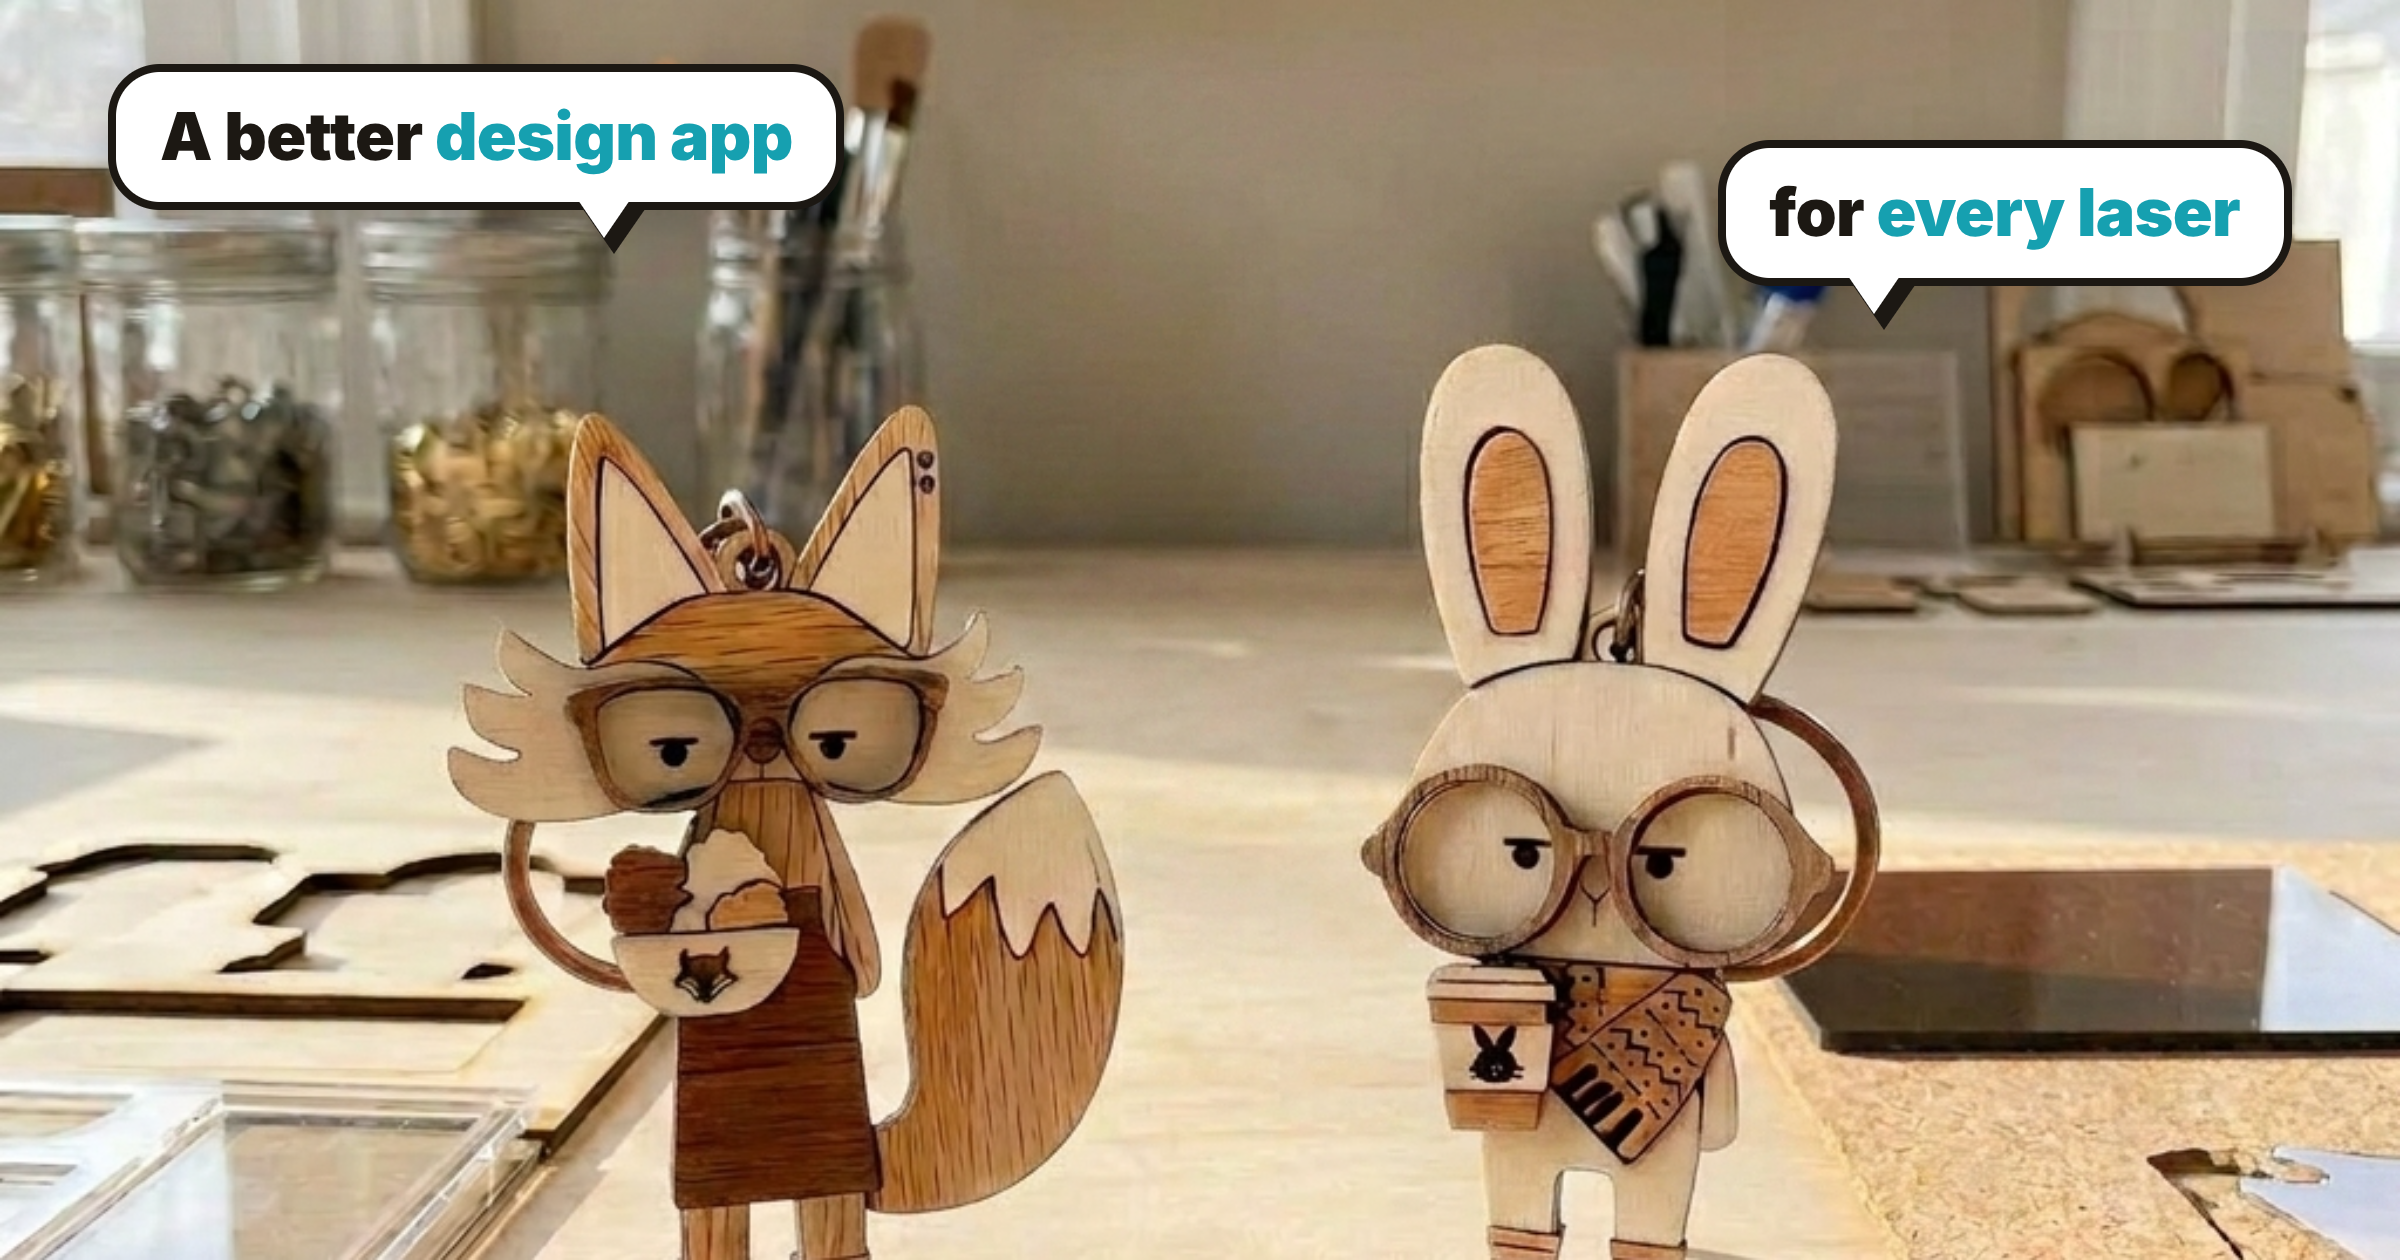
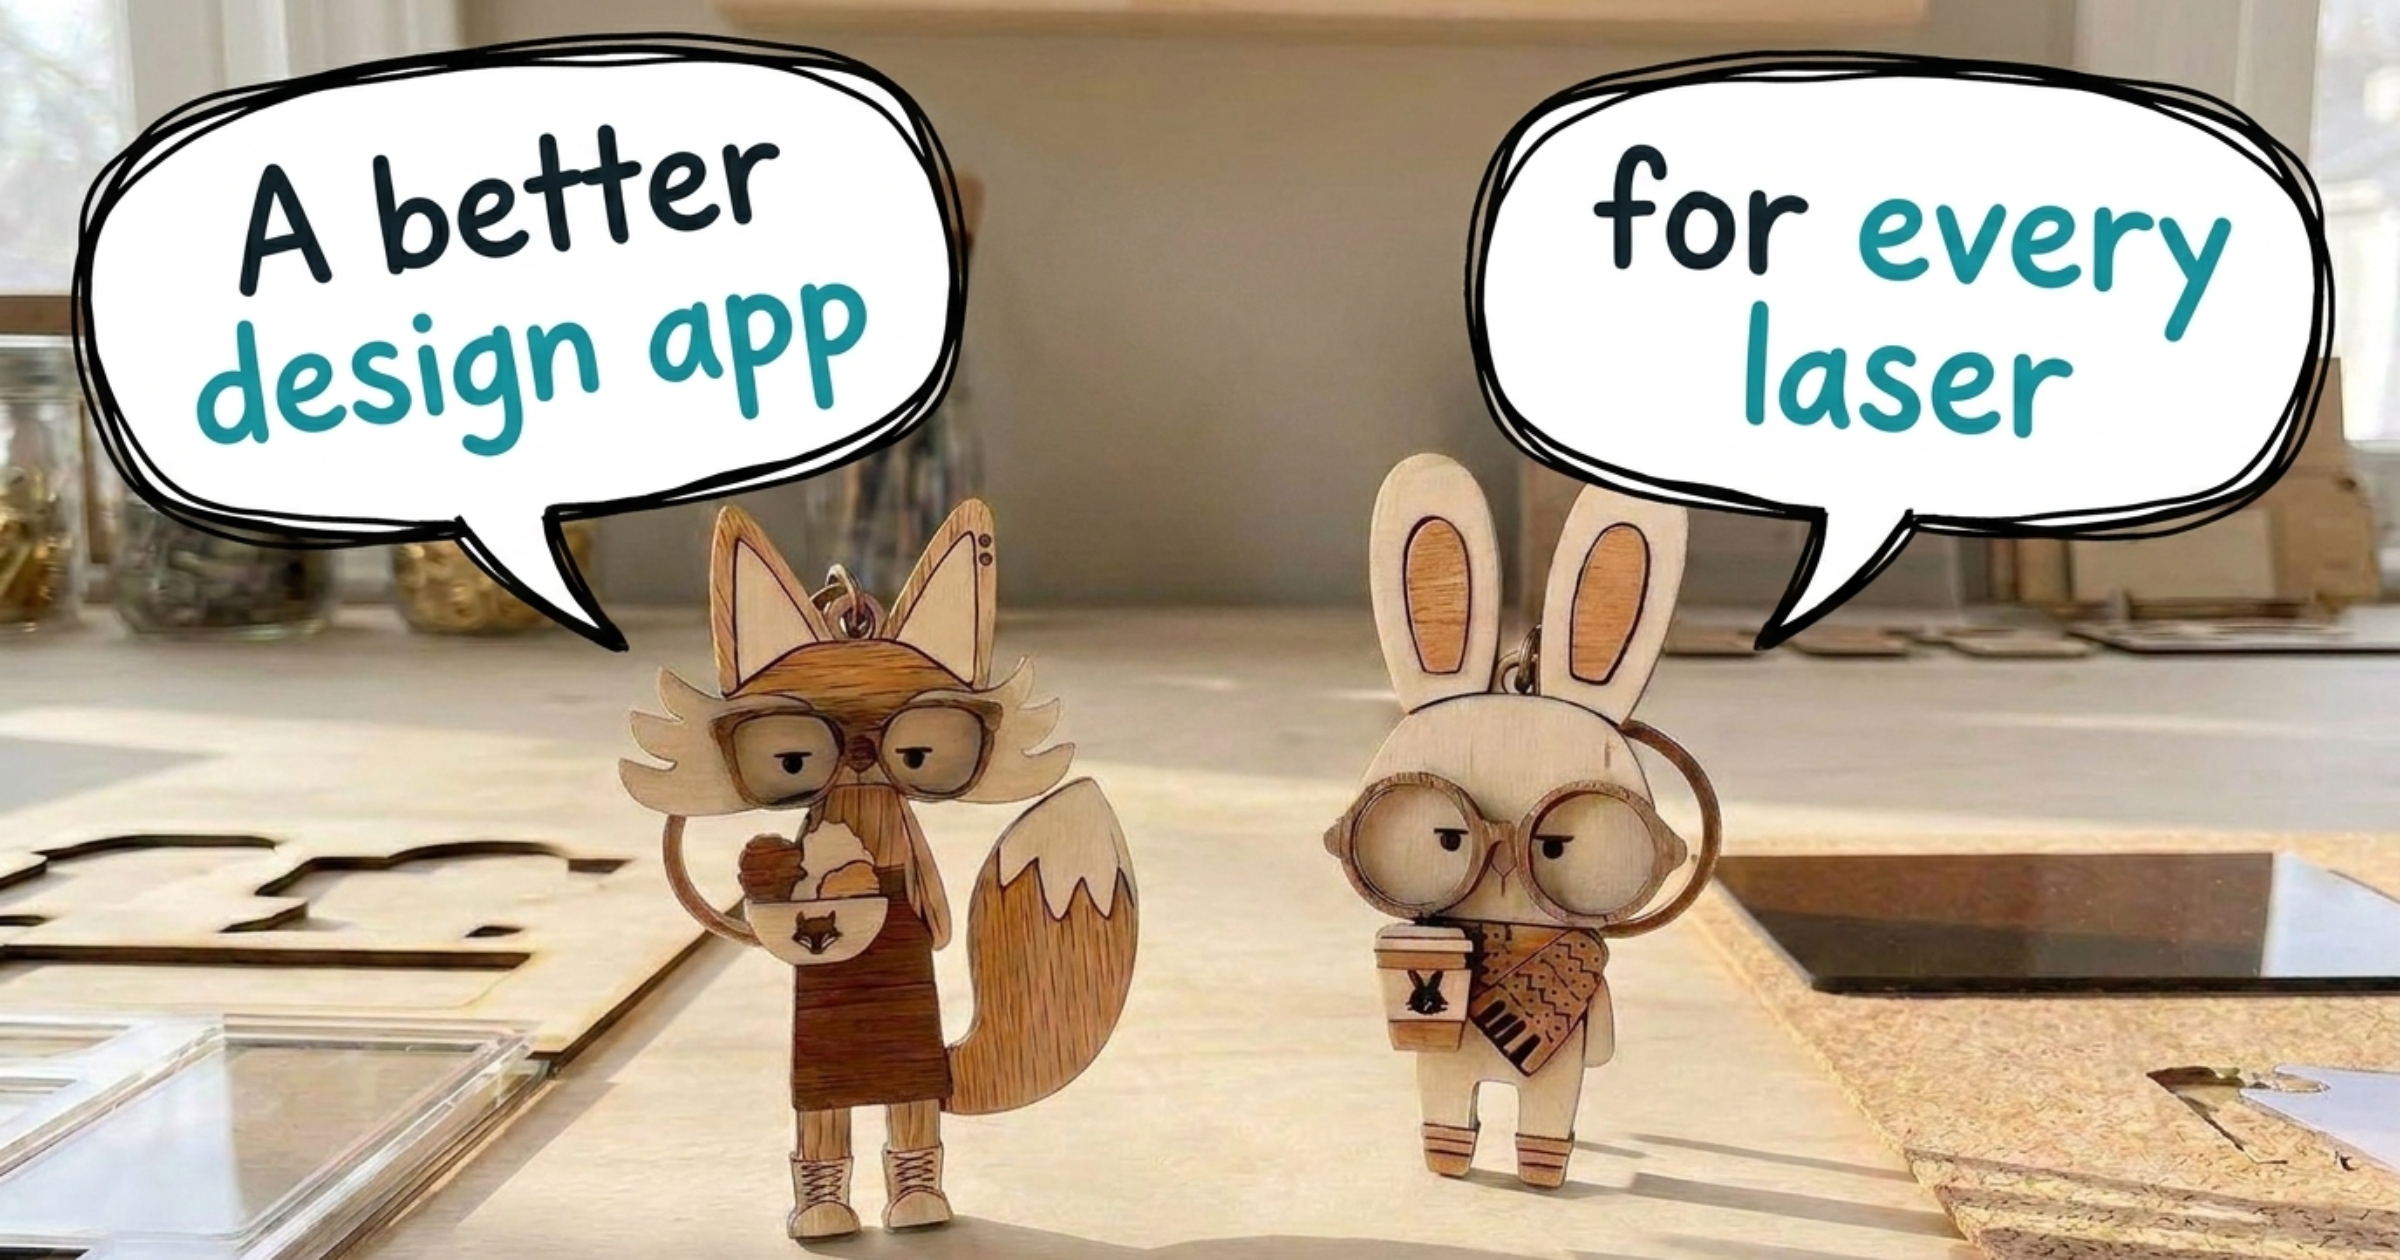
Speech bubbles fully rendered by Gemini (bubbles + hand-lettered text)
Per direction: let Gemini render the text too, so it sits correctly inside the
hand-drawn bubbles. Generate the scene at each aspect (1:1/4:5/9:16/16:9),
verify spelling, normalize to platform dims (wide crop top-anchored to keep the
bubbles). Retire the SVG-path and text-overlay approaches.

Claude-Session: https://claude.ai/code/session_01BkpzFSLZ8yR9LMrEBpeFEy

diff --git a/scripts/gen-bubbles-text.ts b/scripts/gen-bubbles-text.ts
@@ -1,0 +1,36 @@
+import { generateImage } from "../agent/tools/generate-image.js";
+
+/**
+ * Have Gemini render the WHOLE thing: two hand-drawn speech bubbles WITH the
+ * hand-lettered slogan inside — fox: "A better design app", bunny: "for every laser".
+ * Text is Gemini's job here (per direction); verify spelling on the output.
+ * Usage: tsx scripts/gen-bubbles-text.ts <aspectRatio> <outPath>
+ */
+
+const PROMPT = `Edit this image: add TWO big, bold, HAND-DRAWN comic-style speech bubbles (white fill, thick slightly wobbly
+hand-drawn black ink outline, like a marker doodle — not a clean vector).
+
+The LEFT speech bubble sits in the upper-left, its tail pointing down at the wooden FOX figure, and contains the
+hand-lettered words exactly: "A better design app".
+The RIGHT speech bubble sits in the upper-right, its tail pointing down at the wooden BUNNY figure, and contains the
+hand-lettered words exactly: "for every laser".
+
+Hand-letter the text in a bold, friendly, clearly legible style that fits neatly inside each bubble. Spell every word
+EXACTLY as written above — no other letters or words. Color the phrases "design app" and "every laser" in teal
+(#16A0B0); the other words in near-black. Keep the two wooden characters, the desk, and the background unchanged.`;
+
+async function main() {
+  process.env.IMAGE_PROVIDER = "gemini";
+  const ar = process.argv[2] ?? "1:1";
+  const out = process.argv[3] ?? "assets/campaign/chars-bubbles-text.png";
+  const models = ["gemini-3-pro-image", "gemini-2.5-flash-image"];
+  for (const model of models) {
+    process.env.GEMINI_IMAGE_MODEL = model;
+    try {
+      const r = await generateImage({ prompt: PROMPT, aspectRatio: ar, references: ["assets/campaign/chars-clean.png"], outPath: out });
+      console.log(`✓ ${r.outPath} (${r.width}x${r.height}) via ${model}`); process.exit(0);
+    } catch (e) { console.error(`✗ ${model}: ${e instanceof Error ? e.message : e}`); }
+  }
+  process.exit(1);
+}
+main();

diff --git a/scripts/render-bubbles-platform.ts b/scripts/render-bubbles-platform.ts
@@ -1,0 +1,35 @@
+import { readFile, writeFile } from "node:fs/promises";
+import { resolve } from "node:path";
+import { renderSvg } from "../agent/tools/render-svg.js";
+import { SOCIAL, SocialFormat } from "../agent/render/social.js";
+import { REPO_ROOT } from "../agent/brand.js";
+
+/**
+ * Normalize the Gemini-rendered bubble scenes (bubbles + hand-lettered text) to
+ * exact platform dimensions. Same-aspect sources just upscale; the 16:9 source is
+ * cover-cropped to 1.91:1 anchored to the TOP so the speech bubbles are preserved.
+ */
+
+const du = async (r: string, m: string) => `data:${m};base64,${(await readFile(resolve(REPO_ROOT, r))).toString("base64")}`;
+
+async function render(src: string, fmt: SocialFormat, outPath: string, pos: string) {
+  const S = SOCIAL[fmt]; const W = S.w, H = S.h;
+  const img = await du(src, "image/png");
+  const html = `<!doctype html><html><head><meta charset="utf-8"><style>
+    *{box-sizing:border-box;margin:0;padding:0}
+    .stage{position:relative;width:${W}px;height:${H}px;overflow:hidden;background:#eee}
+    img{position:absolute;inset:0;width:${W}px;height:${H}px;object-fit:cover;object-position:${pos}}
+  </style></head><body><div class="stage"><img src="${img}"/></div></body></html>`;
+  const out = await renderSvg({ markup: html, width: W, height: H, outPath });
+  await writeFile(outPath.replace(/\.png$/, ".checks.json"), JSON.stringify({ canvas: [W, H], check_motif: false, checks: [] }, null, 2));
+  console.log(`✓ ${out.outPath}`);
+}
+
+async function main() {
+  await render("assets/campaign/chars-bubbles-text.png",      "ig-square",   "output/laser-bubbles-1x1.png",  "50% 50%");
+  await render("assets/campaign/chars-bubbles-text-4x5.png",  "ig-portrait", "output/laser-bubbles-4x5.png",  "50% 50%");
+  await render("assets/campaign/chars-bubbles-text-9x16.png", "story",       "output/laser-bubbles-9x16.png", "50% 50%");
+  await render("assets/campaign/chars-bubbles-text-16x9.png", "fb-link",     "output/laser-bubbles-191.png",  "50% 0%");
+  process.exit(0);
+}
+main().catch((e) => { console.error("✗", e); process.exit(1); });